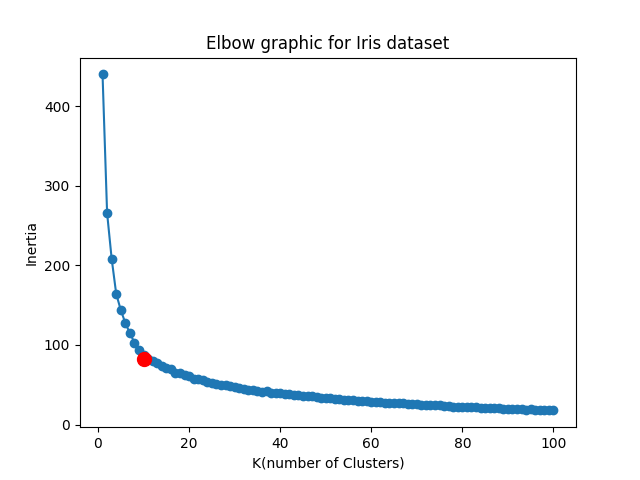
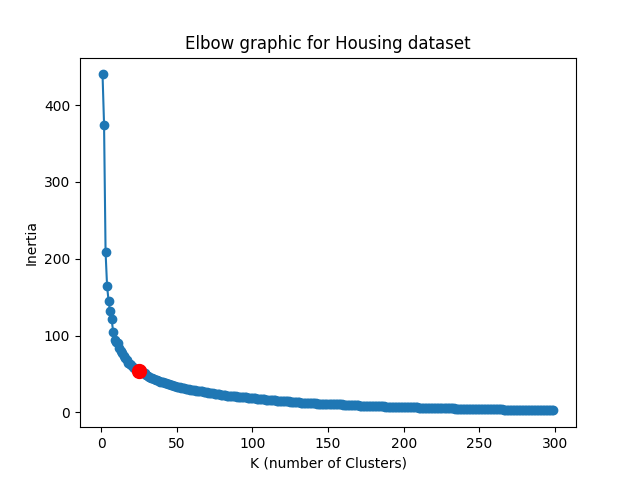
Boston housing data by inertia

diff --git a/modules/clustering/housingDataByInertia.py b/modules/clustering/housingDataByInertia.py
@@ -1,0 +1,67 @@
+import pandas as pd
+import numpy as np
+from sklearn.cluster import KMeans
+from sklearn.preprocessing import MinMaxScaler, OneHotEncoder
+from sklearn.impute import SimpleImputer
+from matplotlib import pyplot as plt
+from kneed import KneeLocator
+
+
+def elbow_detection(inertias: list) -> int:
+    """Calculates the Optimal Number of Clusters (k) using the Elbow method."""
+    k_range = range(1, len(inertias) + 1)
+
+    knee = KneeLocator(k_range, inertias, curve="convex", direction="decreasing")
+    clusters = knee.knee
+
+    plt.plot(k_range, inertias, marker="o")
+    plt.title("Elbow graphic for Housing dataset")
+    plt.xlabel("K (number of Clusters)")
+    plt.ylabel("Inertia")
+    plt.scatter(clusters, inertias[clusters - 1], color='red', s=100, zorder=5)
+    plt.savefig("modules/clustering/elbow/housingData.png")
+
+    return clusters
+
+
+def main():
+    df = pd.read_csv('data/HousingData.csv', sep=',', decimal='.')
+
+
+    chas_imputer = SimpleImputer(strategy='most_frequent')
+    df['CHAS'] = chas_imputer.fit_transform(df[['CHAS']])
+
+    numerical_cols = df.drop(columns=['CHAS']).columns
+    num_imputer = SimpleImputer(strategy='mean')
+    df[numerical_cols] = num_imputer.fit_transform(df[numerical_cols])
+
+    encoder = OneHotEncoder(sparse_output=False)
+    encoded_array = encoder.fit_transform(df[['CHAS']])
+    encoded_df = pd.DataFrame(
+        encoded_array,
+        columns=encoder.get_feature_names_out(),
+        index=df.index,
+    )
+
+    scaler = MinMaxScaler()
+    scaled_array = scaler.fit_transform(df[numerical_cols])
+    scaled_df = pd.DataFrame(scaled_array, columns=numerical_cols, index=df.index)
+
+    normalized_df = pd.concat([encoded_df, scaled_df], axis=1)
+
+    print(normalized_df)
+
+    K = range(1, 300)
+    inertias = []
+
+    for i in K:
+        model = KMeans(n_clusters=i, random_state=1, )
+        model.fit(normalized_df)
+        inertias.append(model.inertia_)
+
+    optimal_clusters = elbow_detection(inertias)
+    print(f"Optimal number of clusters: {optimal_clusters}")
+
+
+if __name__ == "__main__":
+    main()
